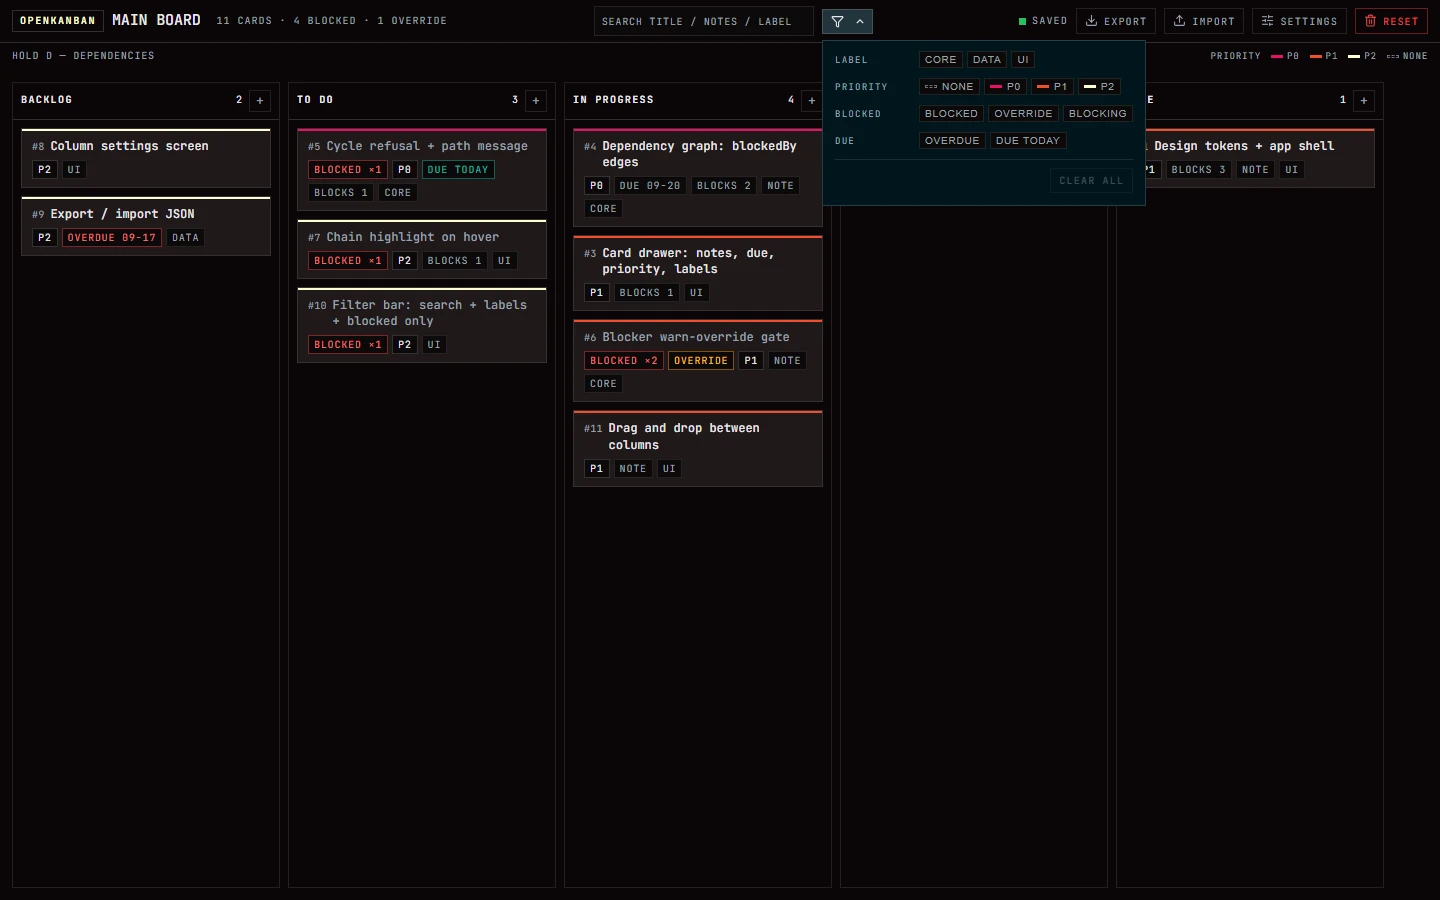
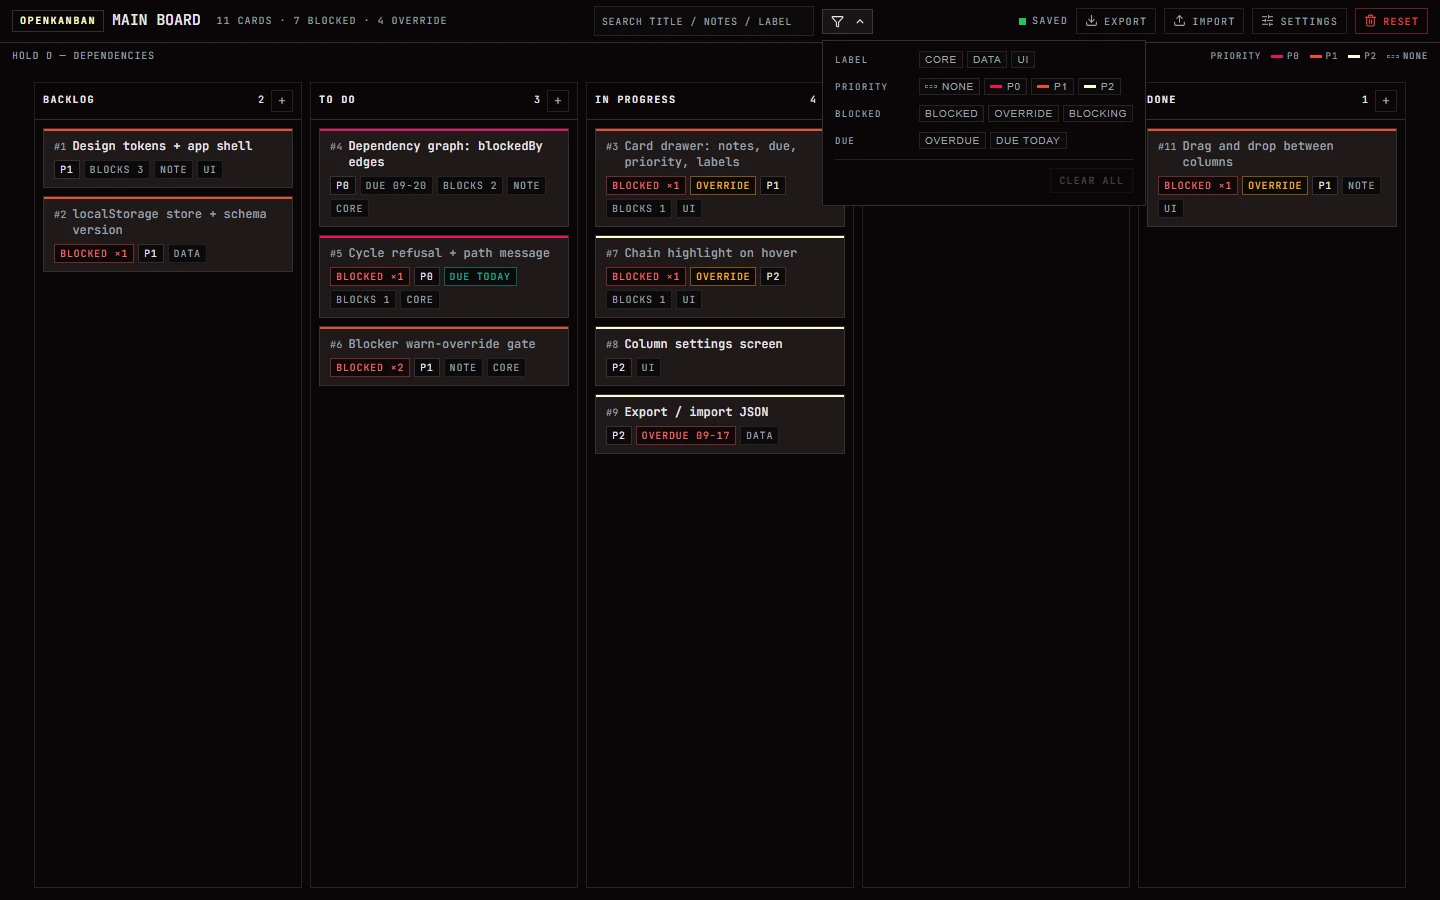
docs: refresh the gallery and the surface notes for the centred board
The screenshots are re-taken from the restored seed, so the columns show the original spread
(BACKLOG 2, TO DO 3, IN PROGRESS 4, REVIEW 1, DONE 1) and the board is centred with its 11 cards.

The design notes now describe the state the app is actually in: two surfaces and one hover, with ink
kept for the modals and toasts alone. The plan records the three decisions behind it — the pane takes
the page fill, columns centre for any count, and the seed is a demo rather than a plan (which is why
it reads 7 BLOCKED where a board of one's own work would not), plus the blocker-resolution check that
produced those numbers.

diff --git a/tasks/plans/openkanban-mvp.md b/tasks/plans/openkanban-mvp.md
@@ -278,8 +278,9 @@ Verification tally — the runs, each counted once, summing to the total:
 7 regression over the card surface change, 7 column-header checks, 9 ink-surface checks,
 6 ring-separator checks, 6 overlay-contrast checks, 14 reset-flow checks, 5 surface-and-header
 colour checks, 9 toolbar-restructure checks, 8 full-height-layout checks, 4 centring checks, 6
-bar-width checks, plus the committed smoke suite (19 checks) run end to end.
-**399 assertions across 30 runs.**
+bar-width checks, 4 seed-and-centring checks, 3 filter-surface checks, plus the committed smoke
+suite (19 checks) run end to end.
+**406 assertions across 33 runs.**
 
 Thirty-one failed on first pass. Two were real product defects, both found by a test rather than
 by review, both fixed: the icon CDN executing nothing (defect 11) and a chip click dismissing the
@@ -439,6 +440,13 @@ horizontal scroll: 0), which is the standard kanban affordance, and at COMPACT d
     the toolbar reported it as present. It is now `flex: 0 0 auto` with `clamp(130px, 17vw, 220px)`,
     measured at 390/700/900/1200/1440/1920 — a real width at every one, and the bar scrolls instead of
     collapsing a control. Centring holds (13px of true centre) wherever the bar is not scrolling.
+22. **The seed's column assignment was restored to its original spread**, after the user's own
+    session had moved cards into DONE while confirming that completing a blocker clears its
+    dependents — which it does, measured: moving `c-shell` to DONE dropped the board from 7 blocked to
+    4 by unblocking `c-store`, `c-chain` and `c-drag` transitively, and moving it back re-blocked all
+    seven. Worth recording because the layout is load-bearing for the screenshots: the seed is spread
+    across all five columns on purpose, so the demo shows a board with activity in every state.
+
 Claims that did not survive checking: a visual audit asserted the columns had different widths and
 that DONE was narrower; measurement shows five × 268px and zero card/chip overflow. The same audit's
 "low-contrast" complaint was right, but for a different reason than stated (item 1). Three more from
@@ -572,6 +580,26 @@ which is why the README carries no CI badge and describes the workflow in prose 
     at the viewport foot whether they hold eleven cards or one. An empty column then has a definite
     place to drop a card, and the board reads as a board rather than as five lists of different
     lengths.
+28. **The filter pane is the page's own fill** (user-directed, after two rejected attempts: an opaque
+    ink panel, then ink at 88% with a backdrop blur). Both were solving a problem that only existed
+    because the pane had its own colour — a second surface in a design whose whole rule is that a
+    surface differs from the page only when it floats *over* the board. It does float, but the 1px
+    rule says that on its own; the pane now measures byte-identical to the page (`rgb(10, 6, 8)`, no
+    blur) and reads as an overlay because the board behind it is dark and the rule is bright.
+    Consequence: ink survives in exactly two places, the modals and the toasts, which genuinely
+    appear over content they must not be confused with.
+29. **Columns are centred for any number the user has** (user-directed: "for whatever number of
+    columns the user has created they should be centered not left aligned"). The board row is
+    `width: max-content` with `margin-inline: auto`, and the auto margins are the mechanism — they
+    resolve to zero the moment the row is wider than its container, so a board that cannot fit still
+    scrolls from the first column instead of having its left edge clipped. Measured at 0px of true
+    centre for five and for three columns, and scrolling cleanly at ten (2752px of row in a 1440px
+    viewport).
+30. **The seed is a demo, not a plan** — its layout deliberately spreads cards across all five
+    columns so every feature has something to show, which means several cards sit in columns their
+    blockers never reached. That is why the seed reads `11 CARDS · 7 BLOCKED · 4 OVERRIDE` while
+    being correct: the overrides are the gate honouring its rule, not a bug in it. A board of one's
+    own work would not look like this, and the sample is meant to be replaced.
 
 ## Reasoning trace
 

diff --git a/README.md b/README.md
@@ -110,9 +110,9 @@ Any static host works, because there is nothing to build. On Vercel: import the 
 
 The look is lifted from a sibling project's design language: a dark instrument panel, JetBrains Mono throughout, 1px rules as the only source of separation, and zero border radius.
 
-There are exactly three surfaces and one hover. The **page** (`#0a0608`), which the toolbar, the read-out row and the columns all share, so those are drawn by their rules rather than by a change of plane. The **card** (`#1f1819`), warm against the rest. And **ink** (`#00161c`) for the things that genuinely float: the filter pane, the modals and the toasts. The sidebar is the page's own material too — three surfaces is the whole system, and every hover across the app is one translucent white lift rather than a fourth colour, so a button looks like the same button wherever it is placed.
+The board is two surfaces and one hover. The **page** (`#0a0608`) carries everything that is part of the board: the toolbar, the read-out row, the columns and the filter pane, so those are drawn by their 1px rules rather than by a change of plane. The **card** (`#1f1819`) is warm against it. Only genuinely floating chrome takes a third: **ink** (`#00161c`) for the modals and the toasts, which appear *over* the board rather than beside it. Every hover across the app is one translucent white lift rather than a fourth colour, so a button looks like the same button wherever it is placed.
 
-Colour is rationed, and this is the rule that keeps it legible: **colour is reserved for the priority rail, the blocked/override/due chips, the filter control, and the dependency overlay** — everything else is ink, ivory or a grey. Where two colour systems have to share a surface (priority fills and dependency rings, for instance) they are separated by a dark step rather than a louder hue, because contrast for a coloured ring is set by what is immediately behind it. That is a measured decision, not a taste one: on the palest priority tint the dependency ring measured 1.28:1 before the fix and 4.5:1 or better after it, with ring rendering identical whether the fills are tinted or not.
+Colour is rationed, and this is the rule that keeps it legible: **colour is reserved for the priority rail, the blocked/override/due chips, the filter badge, and the dependency overlay** — everything else is ivory or a grey. Where two colour systems have to share a surface (priority fills and dependency rings, for instance) they are separated by a dark step rather than a louder hue, because contrast for a coloured ring is set by what is immediately behind it. That is a measured decision, not a taste one: on the palest priority tint the dependency ring measured 1.28:1 before the fix and 4.5:1 or better after it, with ring rendering identical whether the fills are tinted or not.
 
 The build's specification, verification log and the numbers behind claims like that live in [`tasks/plans/openkanban-mvp.md`](tasks/plans/openkanban-mvp.md).
 
